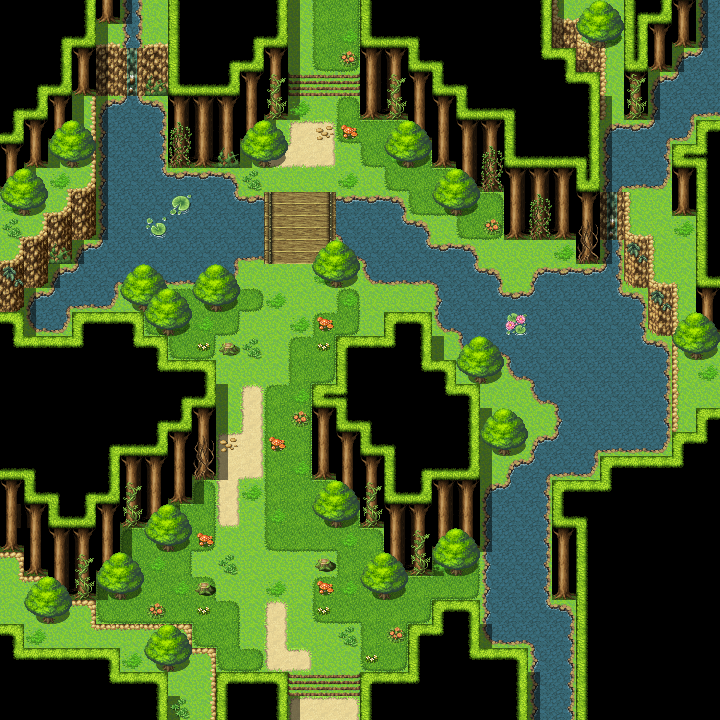
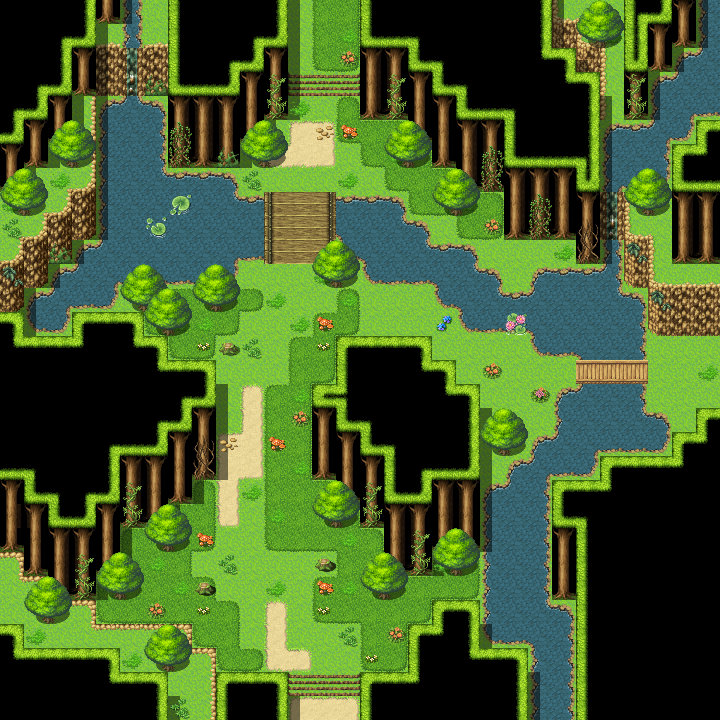
Added the path to the cave through Lost Forest

Changed region(s): [[0.5194, 0.2139, 1.0, 0.6111]]

diff --git a/Maps.py b/Maps.py
@@ -204,11 +204,37 @@ map_configs = {
         "map_scale_factor": 4,
         "bgm": R"music\NewTownTheme.mp3",
         "allow_encounters": True,
-        "encounter_rate": 0.001,
-        "layer_json_path": R"Backgrounds/forest/forest.json",
+        "encounter_rate": 0.000,
+        "layer_json_path": None,
         "transitions": [
             {"zone": (1175, 2749, 1425, 2820), "target": "Town_mapv1", "player_x": 3600, "player_y": 1150},
             {"zone": (1170, 35, 1420, 40), "target": "castle_town", "player_x": 1860, "player_y": 3619},
+            {"zone": (2840, 1340, 2870, 1600), "target": "lost_forest", "player_x": 80, "player_y": 1650}
+        ]
+    },
+    "lost_forest": {
+        "map_image_path": R"Backgrounds/lost_forest.png",
+        "npcs": [],
+        "map_scale_factor": 4,
+        "bgm": R"music\NewTownTheme.mp3",
+        "allow_encounters": True,
+        "encounter_rate": 0.000,
+        "layer_json_path": None,
+        "transitions": [
+            {"zone": (0, 1510, 40, 1780), "target": "forest", "player_x": 2800, "player_y": 1450},
+            {"zone": (2140, 2180, 2200, 2260), "target": "stone_cave", "player_x": 1480, "player_y": 2680}
+        ]
+    },
+    "stone_cave": {
+        "map_image_path": R"Backgrounds/stone_cave.png",
+        "npcs": [],
+        "map_scale_factor": 4,
+        "bgm": R"music\NewTownTheme.mp3",
+        "allow_encounters": True,
+        "encounter_rate": 0.000,
+        "layer_json_path": None,
+        "transitions": [
+            {"zone": (1440, 2740, 1540, 2830), "target": "lost_forest", "player_x": 2160, "player_y": 2290},
         ]
     },
     "castle_town": {
@@ -220,7 +246,7 @@ map_configs = {
         "encounter_rate": 0,
         "layer_json_path": R"Backgrounds/castle_town/castle_town.json",
         "transitions": [
-            {"zone": (1750, 3749, 1990, 3751), "target": "forest", "player_x": 1280, "player_y": 200},
+            {"zone": (1750, 3749, 1990, 3800), "target": "forest", "player_x": 1280, "player_y": 200},
             {"zone": (1770, 0, 2000, 95), "target": "castle", "player_x": 2060, "player_y": 3960},
             {"zone": (980, 2789, 1030, 2829), "target": "guild", "player_x": 1467, "player_y": 2637},
             {"zone": (2510, 1900, 2570, 1970), "target": "item_shop", "player_x": 1457, "player_y": 1587},
@@ -261,7 +287,7 @@ map_configs = {
         "bgm": R"music\NewTownTheme.mp3",
         "allow_encounters": True,
         "encounter_rate": 0,
-        "layer_json_path": R"Backgrounds/castle3F/castle3F.json",
+        "layer_json_path": "Backgrounds/castle3F/castle3F.json",
         "transitions": [
             {"zone": (1860, 2149, 2080, 2249), "target": "castle_1F", "player_x": 1970, "player_y": 2069},
         ]
@@ -302,6 +328,7 @@ map_configs = {
             {"zone": (1850, 2250, 1890, 2300), "target": "castle_town", "player_x": 917, "player_y": 1817},
         ]
     },
+
     "town_map": {
         "map_image_path": R"Backgrounds/TownMap.png",
         "npcs": npcs,
@@ -317,6 +344,7 @@ map_configs = {
             {"zone": (425, 1070, 490, 1145), "target": "casino_map", "player_x": 100, "player_y": 100}
         ]
     },
+
     "dungeon_map": {
         "map_image_path": R".\Backgrounds\Map-L.png",
         "npcs": npcs1,

diff --git a/map_manager.py b/map_manager.py
@@ -104,49 +104,27 @@ class Map:
     def parse_json_data(self, layer_json_path):
         with open(layer_json_path, 'r') as file:
             data = json.load(file)
-
-        if 'autoplayBgm' in data:
-            width = data['width']
-            height = data['height']
-            d = data['data']
-            converted_data = np.array([d[i * width : (i + 1) * width] for i in range(height)])
-            binary_data =  (converted_data <= 1023) | ((4352 <= converted_data) & (converted_data <= 8191 ))  | (converted_data == 2844) | (2837 <= converted_data) & (converted_data <= 2863) | (converted_data <= 2815)
-
-            Positions = binary_data.astype(int)
-            np.set_printoptions(threshold=np.inf) 
-            np.set_printoptions(linewidth=200)  # Adjust the width as needed
-            # Display array with row numbers
-            for idx, row in enumerate(converted_data):
-                print(f"{idx}: {row}")
-            for idx, row in enumerate(Positions):
-                print(f"{idx}: {row}")
-            
-            scale =  self.map_width // width
-            Positions = np.repeat(np.repeat(Positions, scale, axis=1), scale, axis=0)
-            return Positions
-
-
-        else:
-            Positions = []
-            total_x = data["map_width"]
-            total_y = data["map_height"]
-            Positions = np.zeros((total_y, total_x))
-
-            for layer in data["layers"]:
-                if layer["name"] == "Layer 2":
-                    for pos in layer["positions"]:
-                        x = pos["x"]
-                        y = pos["y"]
-                        Positions[y][x] = 1
-            for layer in data["layers"]:
-                if layer["name"] == "Layer 3":
-                    for pos in layer["positions"]:
-                        x = pos["x"]
-                        y = pos["y"]
-                        Positions[y][x] = 0
-            scale =  self.map_width // total_x
-            Positions = np.repeat(np.repeat(Positions, scale, axis=1), scale, axis=0)
-            return Positions
+       
+        Positions = []
+        total_x = data["map_width"]
+        total_y = data["map_height"]
+        Positions = np.zeros((total_x, total_y))
+        print(Positions.shape)
+        for layer in data["layers"]:
+            if layer["name"] == "Layer 2":
+                for pos in layer["positions"]:
+                    x = pos["x"]
+                    y = pos["y"]
+                    Positions[x][y] = 1
+        for layer in data["layers"]:
+            if layer["name"] == "Layer 3":
+                for pos in layer["positions"]:
+                    x = pos["x"]
+                    y = pos["y"]
+                    Positions[x][y] = 0
+        scale =  self.map_width // total_x
+        Positions = np.repeat(np.repeat(Positions, scale, axis=1), scale, axis=0)
+        return Positions
     
 
     def draw(self, screen, events):

diff --git a/character.py b/character.py
@@ -192,11 +192,11 @@ class Character:
 
         # Simulate new position
         new_hitbox  = pygame.Rect(new_x, new_y + self.hitbox_height, self.hitbox_width, self.hitbox_height)
-       
+
         # Check if new position collides with Buildings
         try:
-            # if map_obj.positions[new_x][int(new_y + self.hitbox_height)] == 0:
-            if map_obj.positions[int(new_y + self.hitbox_height)][new_x] == 0:
+            if map_obj.positions[new_x][int(new_y + self.hitbox_height)] == 0:
+            #if int(map_obj.positions[int(new_y + self.hitbox_height)][new_x]) == 0:
             # Check if new position collides with NPCs
                 if not any(new_hitbox.colliderect(char.hitbox) for char in map_obj.npcs+map_obj.enemies):
                     self.x, self.y = new_x, new_y  # Update position
